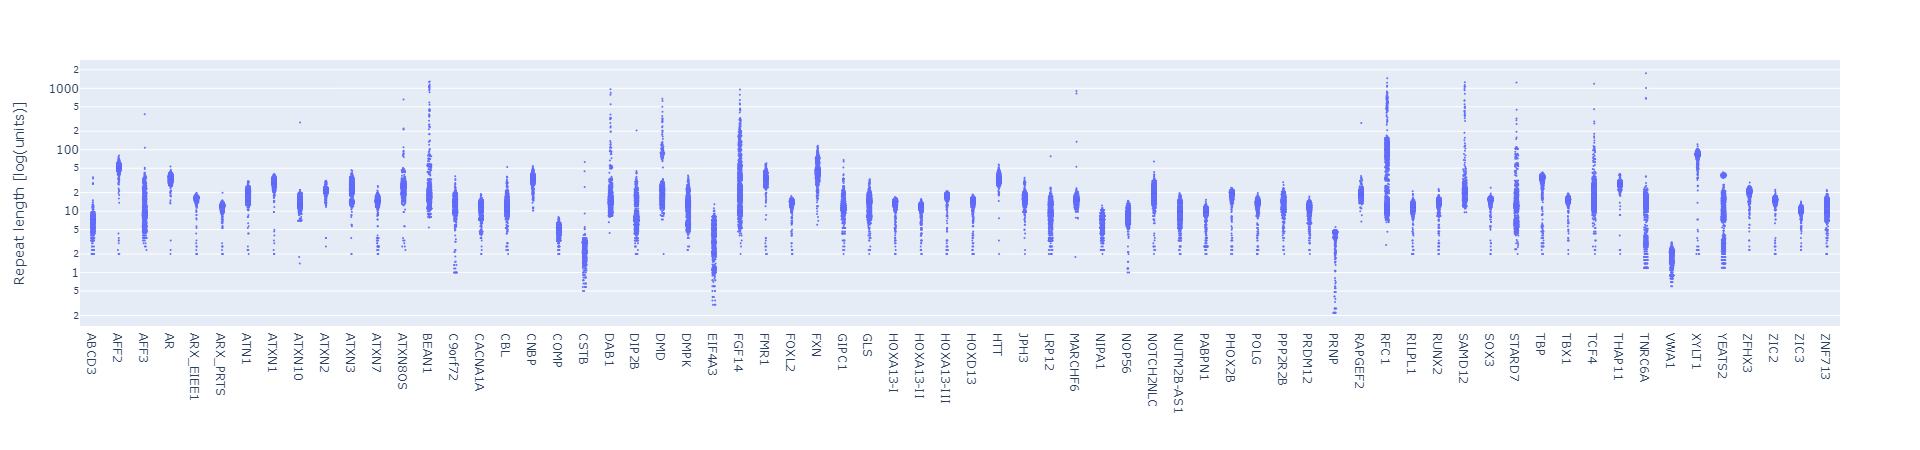
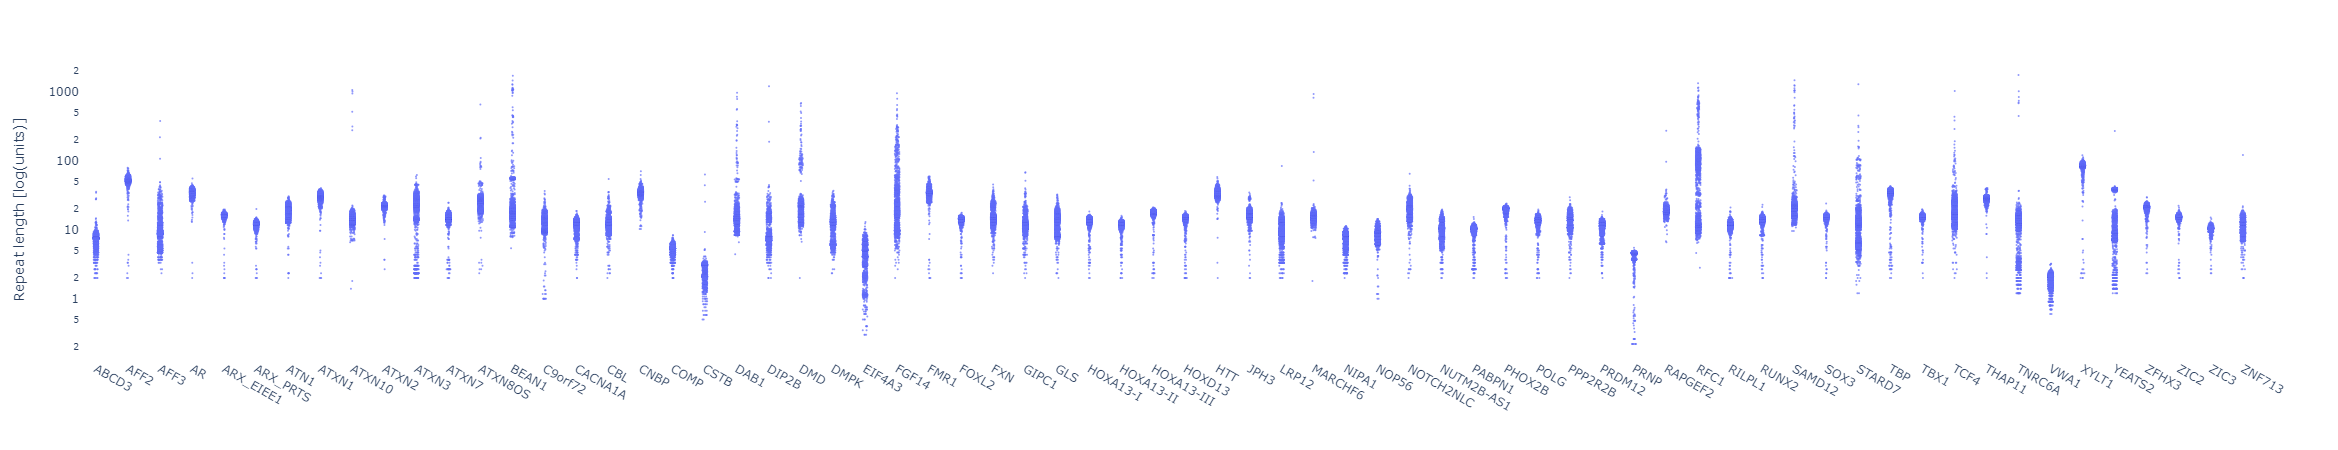
update overview strip plot, while adding opacity and white background

diff --git a/pathSTR/plot.py b/pathSTR/plot.py
@@ -239,11 +239,14 @@ def create_strip_plot(strip_df, log=False):
         fig.update_layout(xaxis_title="", yaxis_title="Repeat length [log(units)]")
     else:
         fig.update_layout(xaxis_title="", yaxis_title="Repeat length [units]")
-    fig.update_traces(marker=dict(size=2))
+    fig.update_traces(marker=dict(size=2, opacity=0.7))
     if strip_df["Group"].nunique() > 1:
         fig.update_layout(legend_title_text="Group")
     else:
         fig.update_layout(showlegend=False)
+    fig.update_layout(
+        plot_bgcolor="rgba(0, 0, 0, 0)",
+    )
     return fig
 
 
